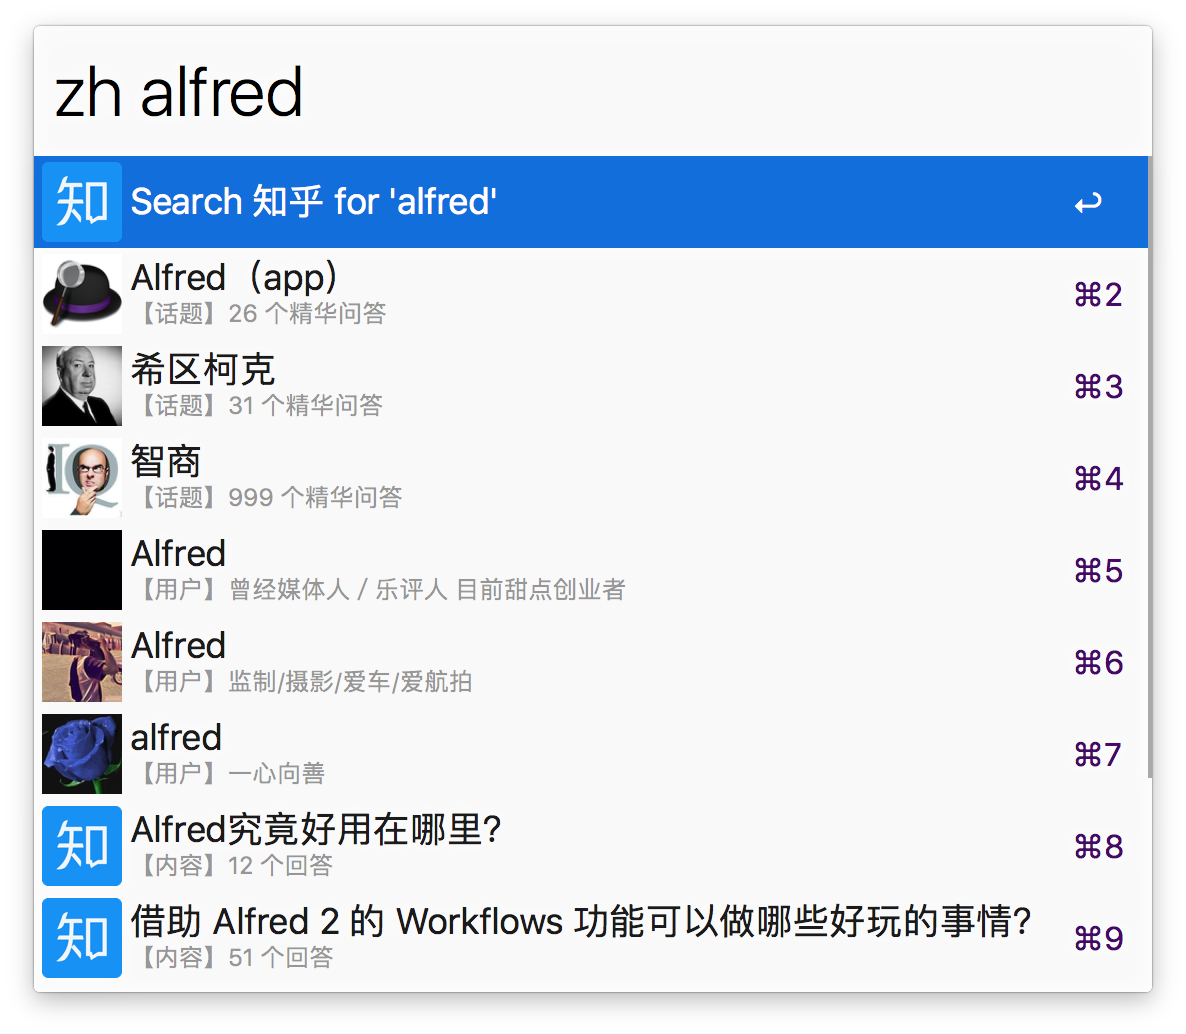
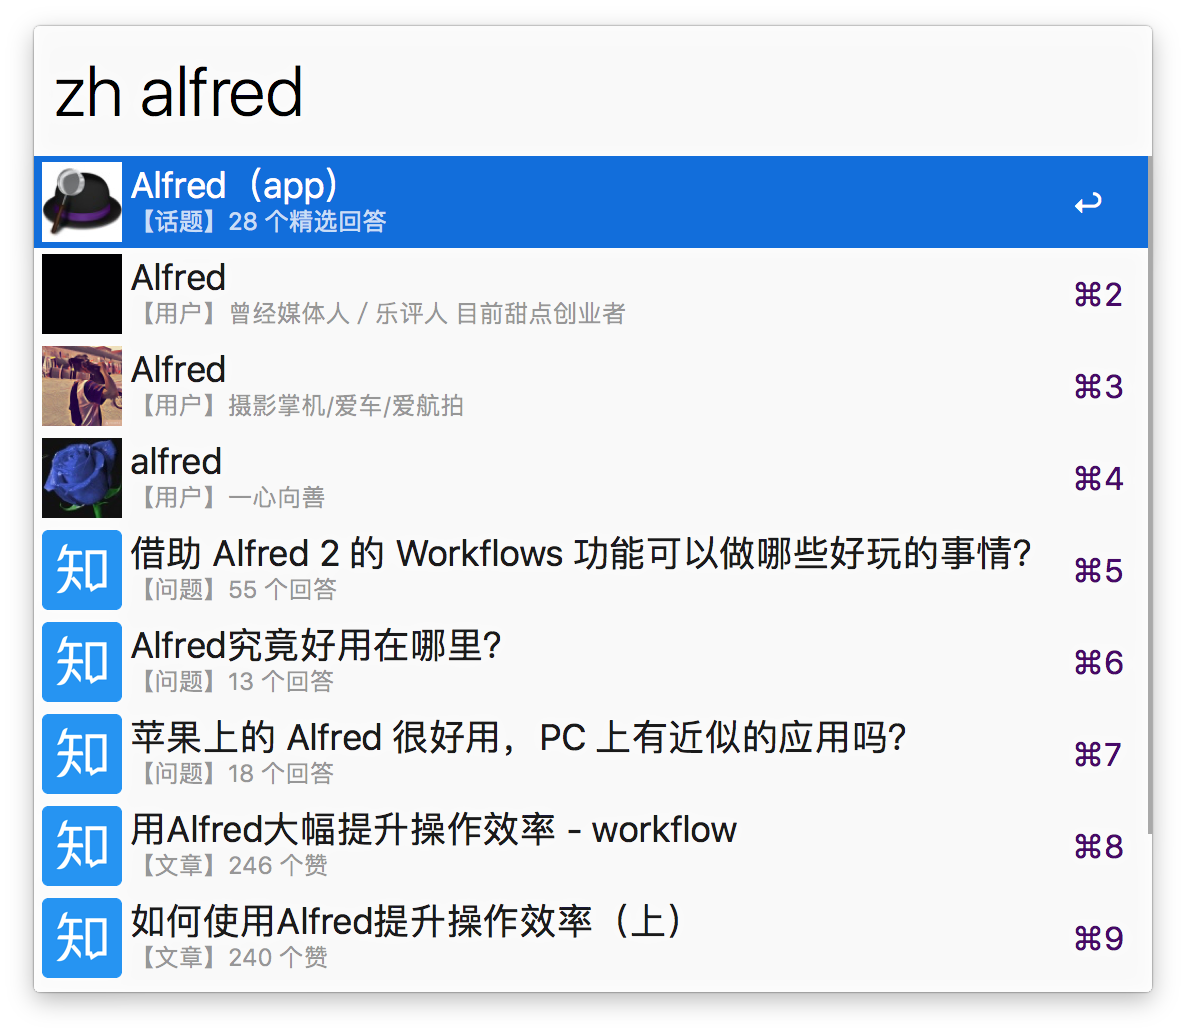
improved Zhihu search suggestion

diff --git a/src/zhihu.php b/src/zhihu.php
@@ -18,36 +18,48 @@ $json = json_decode(mb_convert_encoding($response, 'UTF-8', 'HTML-ENTITIES'))[0]
 
 foreach ($json as $sugg) {
     if (is_array($sugg)) {
+        $matched = TRUE;
         $type = $sugg[0];
         switch ($type) {
             case 'topic':
                 $title = $sugg[1];
-                $subtitle = '【话题】'.$sugg[6].' 个精华问答';
-                $arg = $type.'/'.$sugg[2];
+                $subtitle = '【话题】'.$sugg[6].' 个精选回答';
+                $arg = "https://www.zhihu.com/".$type.'/'.$sugg[2];
                 $icon = saveAndReturnFile(str_replace('_s', '_m', $sugg[3]));
                 break;
             case 'people':
                 $title = $sugg[1];
                 $subtitle = '【用户】'.$sugg[5];
-                $arg = $type.'/'.$sugg[2];
+                $arg = "https://www.zhihu.com/".$type.'/'.$sugg[2];
                 $icon = saveAndReturnFile(str_replace('_s', '_m', $sugg[3]));
                 break;
             case 'question':
                 $title = $sugg[1];
-                $subtitle = '【内容】'.$sugg[4].' 个回答';
-                $arg = $type.'/'.$sugg[3];
+                $subtitle = '【问题】'.$sugg[4].' 个回答';
+                $arg = "https://www.zhihu.com/".$type.'/'.$sugg[3];
                 $icon = ICON;
+                break;
+            case 'article':
+                $title = $sugg[1];
+                $subtitle = '【文章】'.$sugg[4].' 个赞';
+                $arg = "https://zhuanlan.zhihu.com/p/".$sugg[3];
+                $icon = ICON;
+                break;
+            default:
+                $matched = FALSE;
                 break;
         }
 
-        $wf->result()
-            ->title("$title")
-            ->subtitle("$subtitle")
-            ->arg("$arg")
-            ->icon("$icon")
-            ->autocomplete("$title")
-            ->text('copy', "$title")
-            ->quicklookurl("https://www.zhihu.com/".$arg);
+        if ($matched) {
+            $wf->result()
+                ->title("$title")
+                ->subtitle("$subtitle")
+                ->arg("$arg")
+                ->icon("$icon")
+                ->autocomplete("$title")
+                ->copy("$title")
+                ->quicklookurl("$arg");
+        }
     }
 }
 
